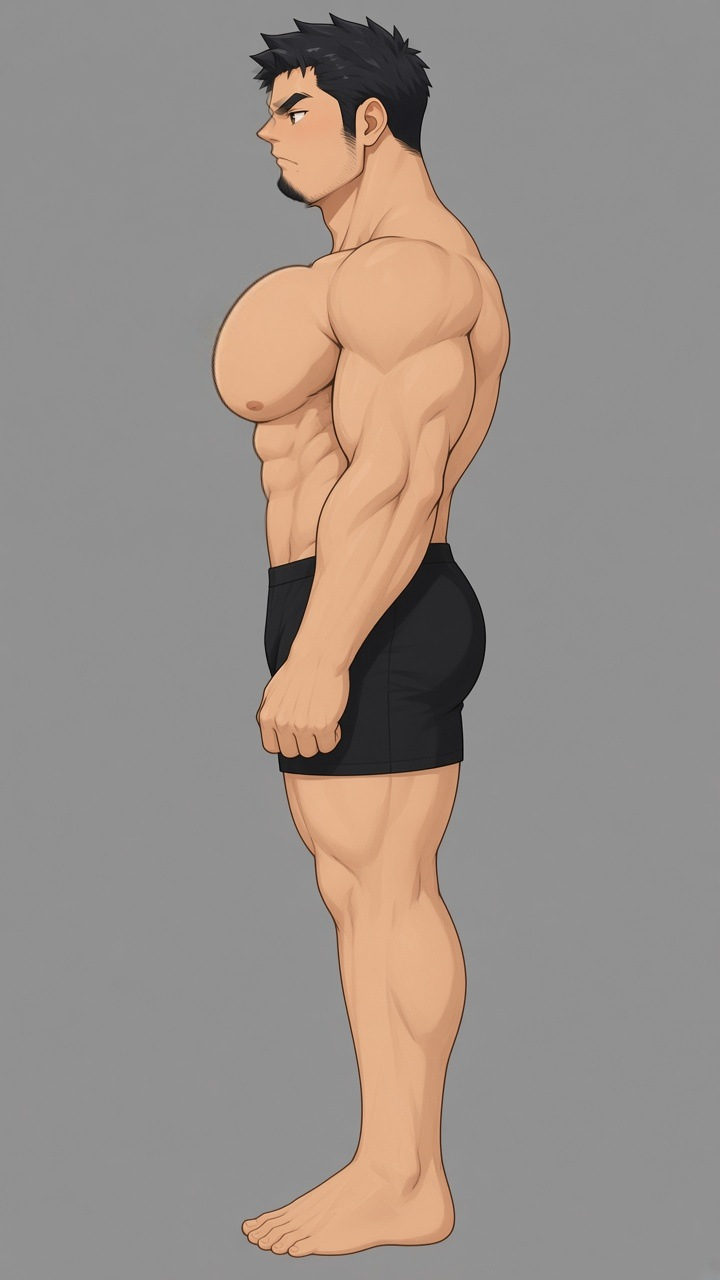
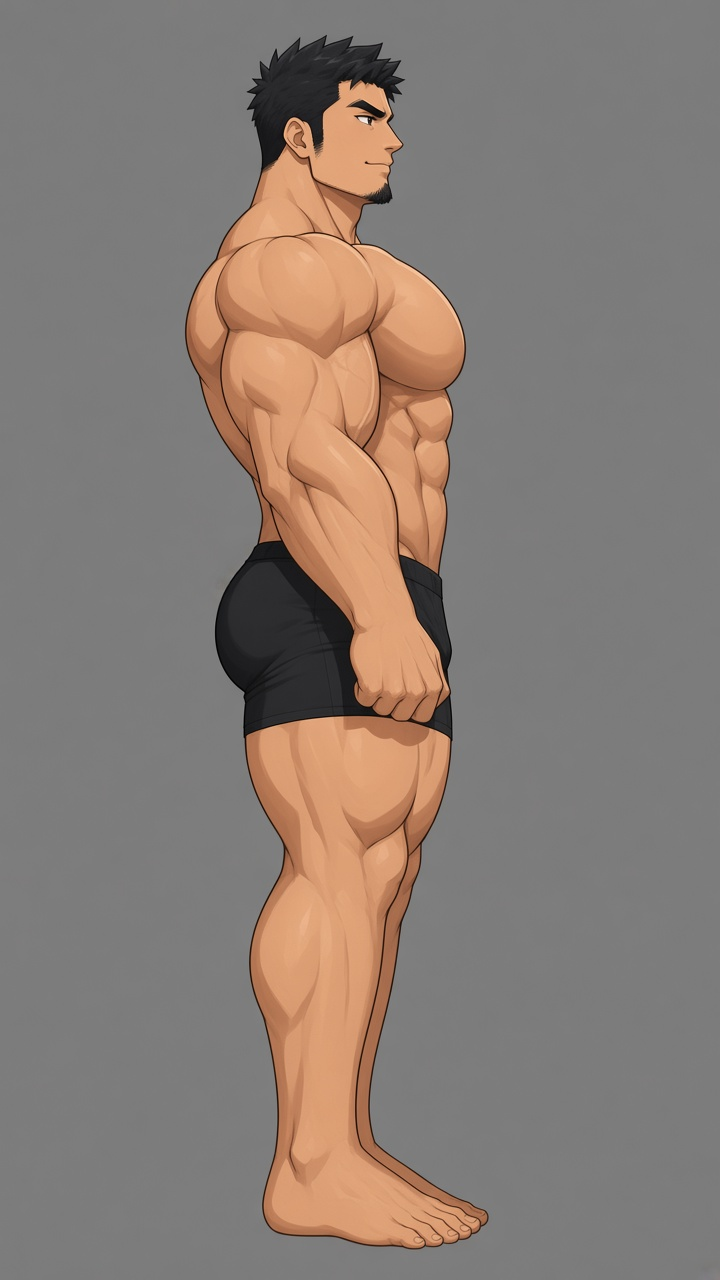
fix: 侧面照肌肉图重画成一整张
胸圆且向前，手臂放在身前，拳头在髋前。

Changed region(s): [[0.2444, 0.0, 0.7333, 1.0], [0.9778, 0.9688, 1.0, 1.0]]

diff --git a/人物设定图/设定说明.md b/人物设定图/设定说明.md
@@ -7,7 +7,7 @@
 ## 识别点
 
 - 脸：短碎发。眼往侧看，深棕色。下颌收尖，下巴有一小撮山羊胡，颊侧淡胡茬。
-- 体：侧面是重新画的一整张。上胸圆，最鼓的位置在前上方，下缘收回腹肌。高，腿长，肩宽。
+- 体：侧面照用户给的那张肌肉侧面重画成一整张。胸圆，最鼓的位置在前上方。手臂在身前，拳头在髋前。肩在胸后。臀圆，包在短裤里。高，腿长。
 - 肤色：暖小麦色。渲染用哑光，不要油亮高光。
 
 ## 图
@@ -17,7 +17,7 @@
 - `头部特写.jpg`：头部特写
 - `全身转面.jpg`：同一次画出的正面、四分之三、侧面、背面，四张是同一个人。侧面胸按肌肉侧面图改圆、改挺
 - `四分之三.jpg`：从这张转面里取出的四分之三
-- `侧面.jpg`：重新画的一整张侧面。上胸圆，往前挺，下缘收回腹肌
+- `侧面.jpg`：照肌肉侧面重画的一整张。胸圆且向前，手臂在身前
 - `背面.jpg`：从这张转面里取出的背面
 - `头部转面.jpg`：左侧面、左四分之三、正面、右四分之三、右侧面
 - `表情.jpg`：平视、侧目、轻笑、沉脸
